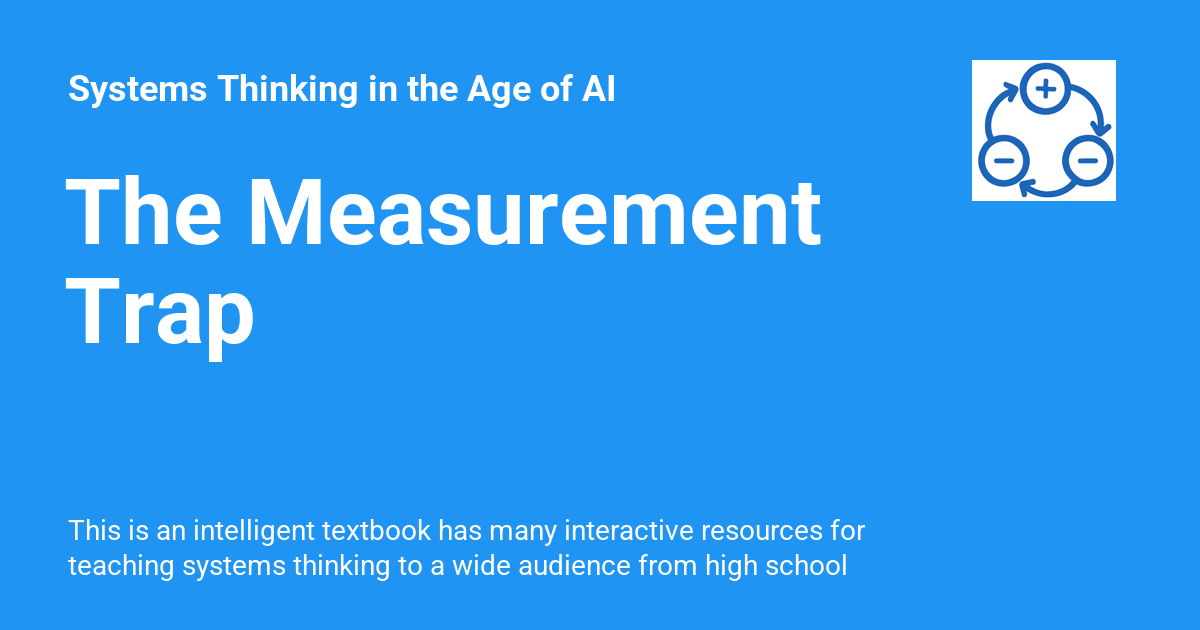
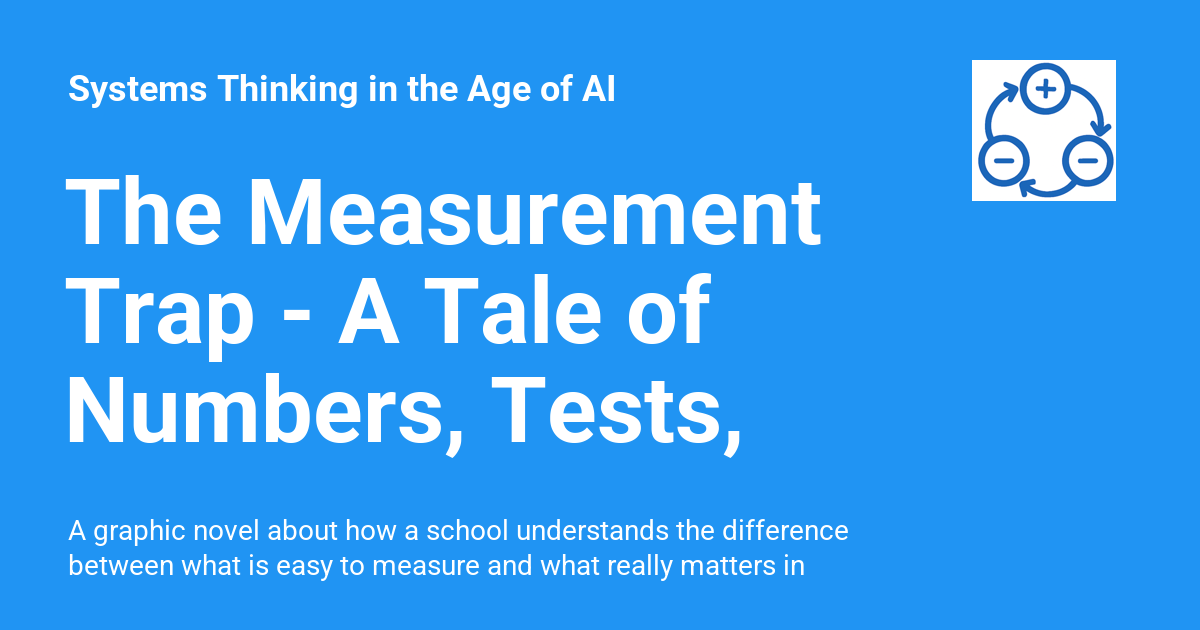
Deployed e627561a with MkDocs version: 1.6.1

Changed region(s): [[0.0617, 0.8143, 0.7092, 0.9349], [0.0308, 0.573, 0.6167, 0.7238], [0.2158, 0.4222, 0.6167, 0.5429]]

diff --git a/stories/measurement-trap/index.html b/stories/measurement-trap/index.html
@@ -6,7 +6,7 @@
       <meta charset="utf-8">
       <meta name="viewport" content="width=device-width,initial-scale=1">
       
-        <meta name="description" content="This is an intelligent textbook has many interactive resources for teaching systems thinking to a wide audience from high school students to business executives.">
+        <meta name="description" content="A graphic novel about how a school understands the difference between what is easy to measure and what really matters in education.">
       
       
         <meta name="author" content="Dan McCreary">
@@ -26,7 +26,7 @@
     
     
       
-        <title>The Measurement Trap - Systems Thinking in the Age of AI</title>
+        <title>The Measurement Trap - A Tale of Numbers, Tests, and What Really Matters - Systems Thinking in the Age of AI</title>
       
     
     
@@ -73,11 +73,11 @@
       
         <meta  property="og:type"  content="website" >
       
-        <meta  property="og:title"  content="The Measurement Trap - Systems Thinking in the Age of AI" >
+        <meta  property="og:title"  content="The Measurement Trap - A Tale of Numbers, Tests, and What Really Matters - Systems Thinking in the Age of AI" >
       
-        <meta  property="og:description"  content="This is an intelligent textbook has many interactive resources for teaching systems thinking to a wide audience from high school students to business executives." >
+        <meta  property="og:description"  content="A graphic novel about how a school understands the difference between what is easy to measure and what really matters in education." >
       
-        <meta  property="og:image"  content="https://dmccreary.github.io/systems-thinking/assets/images/social/stories/measurement-trap/index.png" >
+        <meta property="og:image" content="https://dmccreary.github.io/systems-thinking/stories/measurement-trap/cover.jpg">
       
         <meta  property="og:image:type"  content="image/png" >
       
@@ -89,11 +89,11 @@
       
         <meta  name="twitter:card"  content="summary_large_image" >
       
-        <meta  name="twitter:title"  content="The Measurement Trap - Systems Thinking in the Age of AI" >
+        <meta  name="twitter:title"  content="The Measurement Trap - A Tale of Numbers, Tests, and What Really Matters - Systems Thinking in the Age of AI" >
       
-        <meta  name="twitter:description"  content="This is an intelligent textbook has many interactive resources for teaching systems thinking to a wide audience from high school students to business executives." >
+        <meta  name="twitter:description"  content="A graphic novel about how a school understands the difference between what is easy to measure and what really matters in education." >
       
-        <meta  name="twitter:image"  content="https://dmccreary.github.io/systems-thinking/assets/images/social/stories/measurement-trap/index.png" >
+        <meta name="twitter:image" content="https://dmccreary.github.io/systems-thinking/stories/measurement-trap/cover.jpg">
       
     
     
@@ -149,7 +149,7 @@
         <div class="md-header__topic" data-md-component="header-topic">
           <span class="md-ellipsis">
             
-              The Measurement Trap
+              The Measurement Trap - A Tale of Numbers, Tests, and What Really Matters
             
           </span>
         </div>
